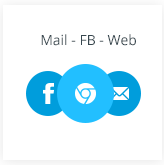
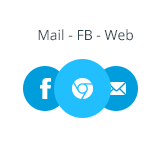
Added 6th Section and Optimizing UI !

diff --git a/index.html b/index.html
@@ -25,30 +25,43 @@
 				  </ul>
 			</div>
 
-			<div class="clearfix sm-col sm-col-12" style="border:0px solid white;margin-top:5.5%">
+			<div class="clearfix sm-col sm-col-12" style="margin-top:5.5%">
 			  
 			  <div class="clearfix section_image my_text">
 			  	
-			  		<h2 class="center " style="">A Multichannel messaging app for your team !</h2>
-			  		<p  class="center ">A messaging that allows you to communicate all in once ! </p>
+			  	<div class="clearfix section__div center sm-col sm-col-12 md-col-12 lg-col-12">
 
+						<h2 class="center " style="">A Multichannel messaging app for your team !</h2>
+								  		<p  class="center ">A messaging that allows you to communicate all in once ! </p>
+
+
+								  	<div class="clearfix center sm-col sm-col-12 md-col-12 lg-col-12" >
+								  			<div style="margin-top:5px;">
+										  		<form >
+												  <label for="search" class="hide">Search</label>
+												  <input id="search" type="search" class="input" placeholder="Enter Email Address">
+												</form>
+											</div>
+											
+											<div style="margin-top:5px;">
+												<button class="btn not-rounded my_tag ">Send !</button>
+											</div>
+							 	   </div>
+
+			  	</div>
+			  		
 
 			  	<div class="clearfix section_div_1 center sm-col sm-col-12 md-col-12 lg-col-12" >
-			  			<div style="margin-top:5px;">
-					  		<form >
-							  <label for="search" class="hide">Search</label>
-							  <input id="search" type="search" class="input" placeholder="Enter Email Address">
-							</form>
-						</div>
-						
-						<div style="margin-top:5px;">
-							<button class="btn not-rounded my_tag ">Send !</button>
-						</div>
+
+			  	
+
+
+					
 		 	   </div>
 
 			    <div class="section_2_image_1 sm-col sm-col-12  my_text_2" style="margin-top: 1.5%;">
 			  
-				  	<div style="border: 1px solid black;margin-top: 3%;">
+				  	<div style="margin-top:3%;">
 				  		<h2 class="center" >Meet Brief !</h2>
 				  		<p class="center ">Lorem ipsum dolor sit amet, consectetur adipiscing elit. </p>
 				  		<p  class="center "> Lorem ipsum dolor sit amet, consectetur adipiscing elit, sed do eiusmod tempor incididunt ut labore et dolore magna aliqua.</p>
@@ -63,8 +76,8 @@
 			  				</span>
 			  			</div>
 			  				<br><br>
-				  			<p class="center" style="opacity:.8 ;color:white;">Brief !</p>
-				  			<p class="center" style="opacity:.8 ;color:white;">All in one communication !</p>
+				  			<p class="center my_style">Brief !</p>
+				  			<p class="center my_style">All in one communication !</p>
 
 
 					</div>
@@ -73,9 +86,9 @@
 
 					<div class="left sm-col sm-col-6 aside_1">
 						
-						<p class = "center" style="color:#00007f;">Old Messy Communication !</p>
+						<p class = "center" >Old Messy Communication !</p>
 
-						<div class = "center aside_1_inner sm-col-7" style=""  >
+						<div class = "center aside_1_inner sm-col-7"   >
 
 							<img src="abc.png" >
 
@@ -89,9 +102,9 @@
 
 					<div class="right sm-col sm-col-6 aside_1 " >
 						
-						<p class = "center" style="color:#00007f;">Empower Communication !</p>
+						<p class = "center" >Empower Communication !</p>
 
-						<div class = "center aside_1_inner sm-col-7"  style="">
+						<div class = "center aside_1_inner sm-col-7"  >
 
 							<img src="abc.png" >
 
@@ -107,22 +120,22 @@
 <!-- section 3 ! -->
 				  <div class="sm-col sm-col-12 section_3">
 				  	
-				  	<div class="sm-col sm-col-3 my_nav" style="margin-left:12%;">
+				  	<div class="sm-col sm-col-3 my_nav" style="margin-left:14%;">
 
-				  			<img src="pininterest.png" style="border-radius:5px;">
+				  			<img src="pininterest.png">
 
 			  				<p  class="center">  Nemo enim ipsam </p>
-				  				<!-- <p  class="center ">  Nemo enim ipsam voluptatem quia voluptas.</p> -->
+				
 				  	</div>
 				  			<div class="sm-col sm-col-3 my_nav" >
 
-				  			<img src="mail-icon.png" style="border-radius:5px;" >
+				  			<img src="mail-icon.png">
 
 				  			<p  class="center">  Nemo enim ipsam </p>
 				  	</div>
 				  			<div class="sm-col sm-col-3 my_nav" >
 
-				  			<img src="Instagram-black-white.png" style="border-radius:5px;" >
+				  			<img src="Instagram-black-white.png">
 
 				  			<p  class="center">  Nemo enim ipsam </p>
 				  	</div>
@@ -140,74 +153,72 @@
 
 
 					  		<div style="margin-top:5px;margin: 0 auto !important;" class="center">
-								<button class="btn not-rounded my_tag " style="background: black;color:white;font-weight:bold;border:none;">Send !</button>
+								<button class="btn not-rounded my_tag my_btn">Send !</button>
 							</div>
 
 				  	</div>
 
 				
 				</div>
+
 				  <div class="sm-col sm-col-12 section_5">
 				  
-				  		<h2 class="center" style="color:black;">Much More Features !</h2>
-							<p class="center " style="color:black;">Lorem ipsum dolor sit amet, consectetur adipiscing elit. </p>
+				  		<h2 class="center p_black" >Much More Features !</h2>
+							<p class="center  p_black" >Lorem ipsum dolor sit amet, consectetur adipiscing elit. </p>
 
 						  <div class="sm-col sm-col-12 section_3">
-				  	
-				  	<div class="sm-col sm-col-2 my_nav_3" style="margin-left:14%;">
+						  	
+						  	<div class="sm-col sm-col-2 my_nav_3" style="margin-left:14%;">
 
-				  			<img src="pininterest.png" style="border-radius:5px;">
+						  			<img src="my_image.png">
 
-			  				<p  class="center">  Nemo enim ipsam </p>
-				  				<!-- <p  class="center ">  Nemo enim ipsam voluptatem quia voluptas.</p> -->
-				  	</div>
-				  			<div class="sm-col sm-col-2 my_nav_3" >
+					  				<p  class="center p_black" >  Nemo enim ipsam </p>
+						  				<!-- <p  class="center ">  Nemo enim ipsam voluptatem quia voluptas.</p> -->
+						  	</div>
+						  			<div class="sm-col sm-col-2 my_nav_3" >
 
-				  			<img src="mail-icon.png" style="border-radius:5px;" >
+						  			<img src="brief_final (1).png">
 
-				  			<p  class="center">  Nemo enim ipsam </p>
-				  	</div>
-				  			<div class="sm-col sm-col-2 my_nav_3" >
+						  			<p  class="center p_black">  Nemo enim ipsam </p>
+						  	</div>
+						  			<div class="sm-col sm-col-2 my_nav_3">
 
-				  			<img src="Instagram-black-white.png" style="border-radius:5px;" >
+						  			<img src="brief_final_1.png">
 
-				  			<p  class="center">  Nemo enim ipsam </p>
-				  	</div>
+						  			<p  class="center p_black">  Nemo enim ipsam </p>
+						  	</div>
 
+				
+						</div>
 				
 				</div>
 
-				
+				<div class="sm-col sm-col-12 section_6">
+
+					<div class="sm-col sm-col-3 section_6_inner">
+		
+						<div class="center sm-col sm-col-12 md-col-12 lg-col-12" >
+
+					  			<div style="margin-top:5px;">
+							  		<form >
+									  <label for="search" class="hide">Search</label>
+									  <input id="search" type="search" class="input" placeholder="Enter Email Address">
+									</form>
+								</div>
+								
+								<div style="margin-top:5px;">
+									<button class="btn not-rounded my_tag ">Send !</button>
+								</div>
+				 	   
+				 	   </div>
+
+					</div>
+					
 				</div>
 
-
-
-
 			</div>
 
-
-
-				
-
 			</div>
-
-
-			<!-- <div class="clearfix " style="border:1px solid white;"> -->
-			<!--   <div class="section_image_2 my_text_2">
-			  
-			  		<h2 class="center ">Meet Brief !</h2>
-			  		<p class="center ">Lorem ipsum dolor sit amet, consectetur adipiscing elit. </p>
-			  		<p  class="center "> Lorem ipsum dolor sit amet, consectetur adipiscing elit, sed do eiusmod tempor incididunt ut labore et dolore magna aliqua.</p>
-			  		<p  class="center ">  Nemo enim ipsam voluptatem quia voluptas.</p>
-			  
-
-			  	<div class="clearfix section_div_1" >
-			  		
-
-
-			  	</div>
-			</div> -->
-			<!-- </div> -->
 
 	</body>
 

diff --git a/css/basscss.min.css b/css/basscss.min.css
@@ -38,7 +38,15 @@ body
 }
 
 
-
+.section_6
+{
+    height: 800px;
+    /* width: 100% !important; */
+    /* border: 1px solid red; */
+    background: url('../brief_final_2.png');
+    background-repeat: no-repeat;
+     background-size:100% auto;
+}
 .section_2_image_1
 {
 	/*background-image: url('../bigstock-Abstract.jpg');*/
@@ -50,11 +58,23 @@ body
 .section_div_1
 {
 	margin: 0 auto !important;
-    background-image: url('../rsz_chatbox-logo.jpg');
-    height: 800px;
+    background-image: url('../brief_final_section_2.png');
+    height: 400px;
     background-size:100% auto;
     background-repeat: no-repeat;
 }
+
+
+.section__div
+{
+    margin: 0 auto !important;
+    /* background-image: url('../brief_final_section_2.png'); */
+    height: 300px;
+    /* background-size:100% auto; */
+    /* background-repeat: no-repeat; */
+    background: #435EF6;
+}
+
 
 .aside_1
 {
@@ -126,7 +146,7 @@ img
 
 .section_5
 {
-    height: 600px;
+    height: 400px;
     background: white;
     /*border: 1px solid white;*/
     /*background: url('../brief_final.png');*/
@@ -141,8 +161,9 @@ img
     /* border:1px solid black; */
     height:180px;
     margin-top:3%;
-    margin-left: 2%;
-    box-shadow: 2px 2px 2px 1px #323232;
+    width: 20% !important;
+    margin-left: 8%;
+    /*box-shadow: 2px 2px 2px 1px #323232;*/
     border-radius: 5px;
 }
 
@@ -153,9 +174,18 @@ img
     height:180px;
     margin-top:3%;
     margin-left: 14%;
-    box-shadow: 2px 2px 2px 1px #323232;
+    /*box-shadow: 2px 2px 2px 1px #323232;*/
     border-radius: 5px;
 }
+
+.section_6_inner
+{
+    height:180px;
+    margin-top:44%;
+    margin-left:38%;
+    background:#fcd08c;
+}
+
 
 .my_nav_2
 {
@@ -168,14 +198,15 @@ img
     height: 330px;
     margin-top:9%;
     margin-left:10%;
-    background:#eee;
+    background:#f3f3f4;
     color:#4c4c4c;
+    border: none;
 }
 
 
 .section_3
 {
-    border:1px solid black;
+    /*border:1px solid black;*/
     height: 300px;
 }
 
@@ -191,11 +222,37 @@ img
 
 }
 
+
+.my_style
+{
+    opacity:.8 ;
+    color:white;
+}
+
 .my_tag:hover
 {
 	opacity: .7;
 
 }
+
+img
+{
+    border-radius: 5px;
+}
+
+.my_btn
+{
+    background: black;
+    color:white;
+    font-weight:bold;
+    border:none;
+}
+
+.p_black
+{
+    color: black !important;
+}
+
 
 
 
